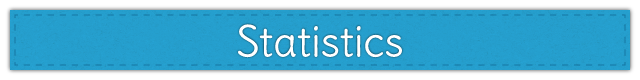
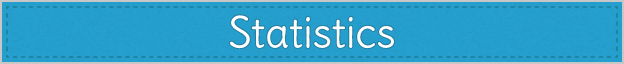
Updated screen headers and positions

diff --git a/src/StatScreen.js b/src/StatScreen.js
@@ -39,10 +39,10 @@ exports = Class(View, function (supr) {
 
         // header title
         this.addSubview(new ImageView({
-            x: 192,
-            y: 0,
-            width: 640,
-            height: 80,
+            x: 200,
+            y: 8,
+            width:  624,
+            height:  64,
             image: 'resources/images/header-statistics.png'
         }));
 

diff --git a/src/AwardScreen.js b/src/AwardScreen.js
@@ -48,10 +48,10 @@ exports = Class(View, function (supr) {
 
         // header title
         this.addSubview(new ImageView({
-            x: 192,
-            y: 0,
-            width: 640,
-            height: 80,
+            x: 200,
+            y: 8,
+            width: 624,
+            height: 64,
             image: 'resources/images/header-awards.png'
         }));
 

diff --git a/src/CreditsScreen.js b/src/CreditsScreen.js
@@ -34,10 +34,10 @@ exports = Class(View, function (supr) {
 
         // title
         this.addSubview(new ImageView({
-            x: 192,
-            y: 0,
-            width: 640,
-            height: 80,
+            x: 200,
+            y: 8,
+            width:  624,
+            height:  64,
             image: 'resources/images/header-credits.png'
         }));
 
